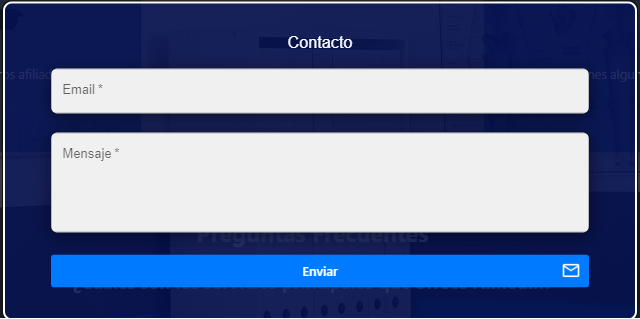
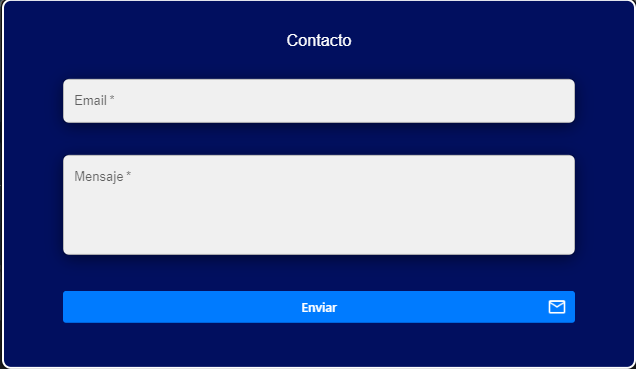
readme

Changed region(s): [[0.0, 0.0, 1.0, 1.0], [0.4481, 0.0846, 0.5676, 0.1693]]

diff --git a/frontend/obra-social-front/src/components/modal/Modal.css b/frontend/obra-social-front/src/components/modal/Modal.css
@@ -5,7 +5,7 @@
     transform: translate(-50%, -50%);
     width: 30%;
     max-width: 90%;
-    background-color: rgba(1, 15, 95, 0.71);
+    background-color: rgb(1, 15, 95);
     border-radius: 10px;
     box-shadow: 0 4px 20px rgba(0, 0, 0, 0.5);
     padding: 35px;

diff --git a/README.md b/README.md
@@ -7,11 +7,12 @@
 2. [Integrantes del Proyecto](#integrantes-del-proyecto)
 3. [Entidades creadas](#entidades-creadas)
 4. [Backend](#backend)
+    - [Requisitos](#requisitos)
     - [Tecnologias](#tecnologías)
     - [Dependencias utilizadas](#dependencias-utilizadas)
     - [Estructura del Proyecto](#estructura-del-proyecto)
+    - [Base de datos H2](#base-de-datos)
     - [Implementación de los servicios](#implementación-de-los-servicios)
-    - [Requisitos](#requisitos)
     - [Instrucciones para Ejecutar el Proyecto](#instrucciones-para-ejecutar-el-proyecto)
     - [Implementación del Swagger](#implementación-del-swagger)
 
@@ -46,6 +47,13 @@ Somos el grupo 9 y este es el trabajo práctico integrador de la academia Java +
 
 # Backend
 
+## Requisitos
+
+- **Java 17 o superior**
+- **Tener Maven instalado**
+- **Terminal para correr el proyecto**
+- **Postman o navegador para probar la API**
+
 ## Tecnologías
 
 - **Java 17** como lenguaje de programación.
@@ -70,18 +78,20 @@ El proyecto sigue el patrón de diseño MVC (Modelo-Vista-Controlador) y está d
 - **model**: Modelos de datos.
 - **dto**: Objetos de Transferencia de Datos (DTOs).
 
+## Base de datos
+
+Estamos usando la base de datos H2 e importamos los datos a través de un archivo llamado *import.sql*. La elección de esta base de datos fue el hecho de poder lanzar el proyecto sin la necesidad de tener mas programas instalados.
+
+![import](docs/importSQL.png)
+
 ## Implementación de los servicios
 
 Los servicios están diseñados con interfaces e implementados para permitir una mayor flexibilidad y modularidad.
 
 ![Estructura services](docs/estructuraServices.png)
 
-## Requisitos
 
-- **Java 17 o superior**
-- **Tener Maven instalado**
-- **Terminal para correr el proyecto**
-- **Postman o navegador para probar la API**
+
 
 ## Instrucciones para Ejecutar el Proyecto
 
@@ -95,7 +105,7 @@ Los servicios están diseñados con interfaces e implementados para permitir una
     ```bash
     ./mvn compile quarkus:dev
     ```
-3. **¡Listo para probar!**
+3. **¡Listo para probar, no se necesita nada más!**
 
 - **Opción 1:**
   Abre el [archivo de la colección](https://github.com/nicolasjitorres/UMSA_grupo_9/blob/develop/BackendSofftek/obrasocial.postman_collection.json) que se encuentra subido en el repositorio para hacer las pruebas desde la herramienta POSTMAN.
